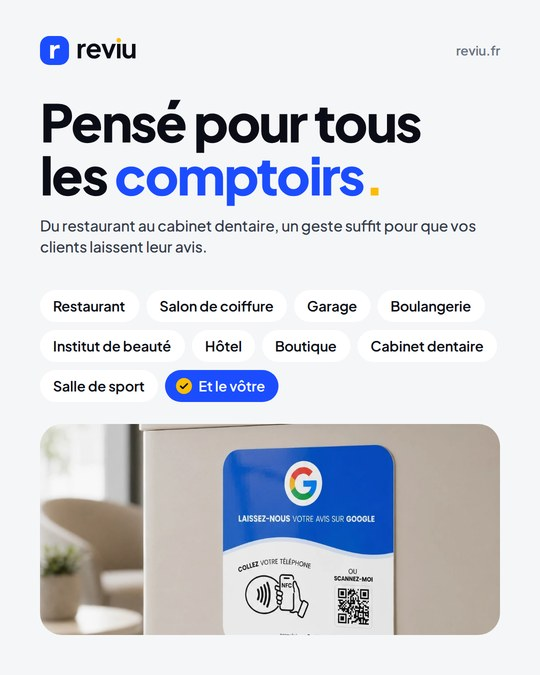
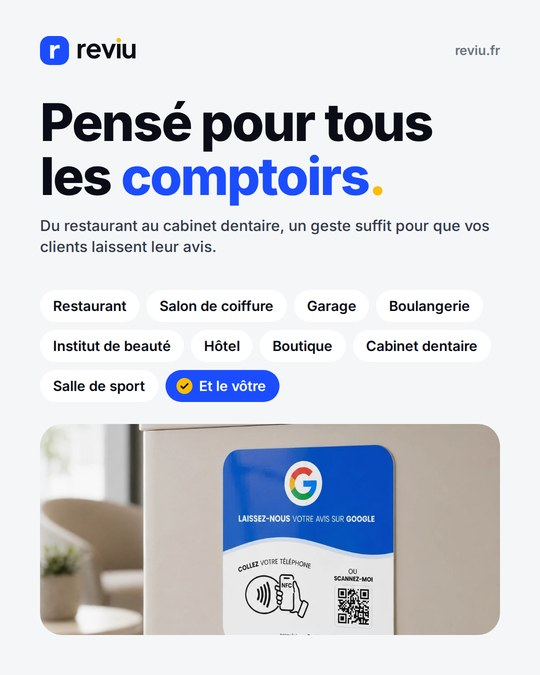
Charte graphique : textes Canva en Inter, spécimens typographiques
Plus Jakarta Sans n'étant pas reconnue par l'import Canva, les textes
éditables passent en Inter (gratuite dans Canva). Le logo reste en
Plus Jakarta Sans vectorisée.

Claude-Session: https://claude.ai/code/session_01CiP53sziPvu6eCSHGXHRLu

diff --git a/brand/sources/build.py b/brand/sources/build.py
@@ -15,7 +15,7 @@ def width(text, size, weight=500, ls=0):
     name = {400: "Regular", 500: "Medium", 600: "SemiBold", 700: "Bold", 800: "ExtraBold"}[weight]
     key = (name, size)
     if key not in _fonts:
-        _fonts[key] = ImageFont.truetype(f"static/PlusJakartaSans-{name}.ttf", size)
+        _fonts[key] = ImageFont.truetype(f"static/Inter-{name}.ttf", size)
     return _fonts[key].getlength(text) + ls * size * max(len(text) - 1, 0)
 
 def A(p):
@@ -29,7 +29,14 @@ def T(x, y, w, txt, size, weight=500, color=INK, lh=1.35, ls=0.0, align="left"):
     return (f'<div class="t" style="left:{x}px;top:{y}px;width:{w}px;font-size:{size}px;font-weight:{weight};'
             f'color:{color};line-height:{lh};letter-spacing:{ls}em;text-align:{align}">{txt}</div>')
 
-def HEAD(x, y, w, txt, size, color=INK, lh=1.02, ls=-0.035, weight=800, align="left"):
+import re as _re
+WARN = []
+def HEAD(x, y, w, txt, size, color=INK, lh=1.04, ls=-0.03, weight=800, align="left"):
+    for line in txt.split("<br>"):
+        plain = H.unescape(_re.sub(r"<[^>]+>", "", line))
+        lw = width(plain, size, weight, ls)
+        if lw > w * 0.94:
+            WARN.append(f"{plain!r} {lw:.0f}/{w}")
     return T(x, y, w, txt, size, weight, color, lh, ls, align)
 
 def R(x, y, w, h, bg, r=0, border=None, opacity=None):
@@ -102,12 +109,12 @@ def page(w, h, bg, inner, label):
 
 def doc(pages, title):
     if MODE == "local":
-        fonts = '<link rel="stylesheet" href="../../fonts/static.css">'
+        fonts = '<link rel="stylesheet" href="../../fonts/inter.css">'
     else:
         fonts = ('<link rel="preconnect" href="https://fonts.googleapis.com">'
-                 '<link rel="stylesheet" href="https://fonts.googleapis.com/css2?family=Plus+Jakarta+Sans:wght@400;500;600;700;800&display=swap">')
+                 '<link rel="stylesheet" href="https://fonts.googleapis.com/css2?family=Inter:wght@400;500;600;700;800&display=swap">')
     css = ("*{margin:0;padding:0;box-sizing:border-box}html,body{background:#fff}"
-           "body{font-family:'Plus Jakarta Sans',sans-serif;-webkit-font-smoothing:antialiased}"
+           "body{font-family:'Inter',sans-serif;-webkit-font-smoothing:antialiased}"
            ".page{position:relative;overflow:hidden;break-after:page}.page:last-child{break-after:auto}"
            ".t,.r,.i{position:absolute}.t{white-space:normal}")
     return f'<!doctype html><html lang="fr"><head><meta charset="utf-8"><title>{title}</title>{fonts}<style>{css}</style></head><body>{"".join(pages)}</body></html>'
@@ -232,7 +239,7 @@ def stories():
 
     # 3. Sondage (cobalt)
     inner = logo(80, 250, 58, "blanc-sur-cobalt")
-    inner += HEAD(80, 420, 940, f"Combien d’avis<br>Google avez-vous<br>aujourd’hui {g('?')}", 104, WHITE)
+    inner += HEAD(80, 420, 940, f"Combien d’avis<br>Google avez-vous<br>aujourd’hui {g('?')}", 96, WHITE)
     inner += R(130, 840, 820, 460, STRONG, 48)
     inner += I(390, 930, 300, "icons/stars-5-gold.svg")
     inner += T(130, 1030, 820, "Ajoutez ici le sticker Sondage", 32, 700, WHITE, 1.3, 0, "center")
@@ -468,26 +475,31 @@ def charte():
 
     # 9 Typographie
     inner = ctitle(f"La {c('typographie')}{g()}")
-    inner += T(110, 230, 700, "Aa", 330, 800, INK, 1.0, -0.05)
-    inner += T(120, 590, 700, "Plus Jakarta Sans", 52, 800, INK, 1.2, -0.03)
-    inner += T(120, 660, 700, "Gratuite sur Google Fonts et disponible dans Canva.", 24, 500, MUTED, 1.4)
-    inner += T(120, 730, 700, "ABCDEFGHIJKLMNOPQRSTUVWXYZ<br>abcdefghijklmnopqrstuvwxyz<br>0123456789 € % ! ? « »", 26, 600, SOFT, 1.6, 0.02)
-    rows = [("Titre", f"Plus d’avis Google{g()}", 64, 800, -0.035, "ExtraBold 800 · interlettrage -3,5 % · interligne 1"),
-            ("Sous-titre", "Depuis votre comptoir", 40, 700, -0.02, "Bold 700 · interlettrage -2 %"),
-            ("Texte", "Le client approche son téléphone et votre page d’avis s’ouvre.", 28, 500, 0, "Medium 500 · interligne 1,4"),
-            ("Étiquette", "Commander", 26, 600, 0, "SemiBold 600 · boutons, pastilles, mentions")]
-    y = 250
-    for lab, sample, sz, wt, ls, spec in rows:
-        inner += T(960, y + 8, 200, lab, 22, 800, COBALT, 1.3)
+    inner += R(120, 250, 820, 410, PERLE, 36)
+    inner += I(160, 290, 250, "icons/specimen-pjs-aa.svg")
+    inner += I(440, 306, 440, "icons/specimen-pjs-nom.svg")
+    inner += T(440, 392, 460, "Police d’identité : logo, site web et documents imprimés. Gratuite sur Google Fonts.", 22, 500, SOFT, 1.5)
+    inner += I(160, 580, 700, "icons/specimen-pjs-alphabet.svg")
+    inner += R(980, 250, 820, 410, BRUME, 36)
+    inner += T(1016, 318, 270, "Aa", 196, 800, INK, 1.0, -0.04)
+    inner += T(1300, 300, 460, "Inter", 64, 800, INK, 1.1, -0.03)
+    inner += T(1300, 392, 460, "Police des visuels créés dans Canva : réseaux sociaux, affiches, présentations. Gratuite dans Canva.", 22, 500, SOFT, 1.5)
+    inner += T(1020, 580, 740, "ABCDEFGHIJKLMNOPQRSTUVWXYZ", 30, 600, SOFT, 1.3, 0.02)
+    rows = [("Titre", f"Plus d’avis{g()}", 56, 800, -0.03, "Inter ExtraBold 800 · interlettrage -3 %"),
+            ("Sous-titre", "Votre comptoir", 38, 700, -0.02, "Inter Bold 700 · interlettrage -2 %"),
+            ("Texte", "Le client approche son téléphone.", 24, 500, 0, "Inter Medium 500 · interligne 1,4"),
+            ("Étiquette", "Commander", 24, 600, 0, "Inter SemiBold 600 · boutons, pastilles")]
+    for i, (lab, sample, sz, wt, ls, spec) in enumerate(rows):
+        x = 120 + i * 430
+        inner += R(x, 700, 390, 2, LINE)
+        inner += T(x, 724, 390, lab, 20, 800, COBALT, 1.3)
         if lab == "Étiquette":
-            o, _ = pill(1180, y - 6, sample, 26, COBALT, WHITE, None, h=62, weight=600, pad=30)
+            o, _ = pill(x, 772, sample, 24, COBALT, WHITE, None, h=60, weight=600, pad=28)
             inner += o
         else:
-            inner += T(1180, y, 640, sample, sz, wt, INK, 1.15, ls)
-        inner += T(1180, y + (sz * 1.15 if lab != "Texte" else 80) + (14 if lab != "Étiquette" else 30), 640, spec, 20, 600, MUTED, 1.4)
-        y += {"Titre": 190, "Sous-titre": 160, "Texte": 190, "Étiquette": 0}[lab]
-    inner += R(960, 930, 840, 2, LINE)
-    inner += T(960, 950, 840, "Sur le site web, le texte courant de l’interface utilise Geist.", 20, 600, MUTED, 1.4)
+            inner += T(x, 770, 400, sample, sz, wt, INK, 1.2, ls)
+        inner += T(x, 870, 390, spec, 18, 600, MUTED, 1.4)
+    inner += T(120, 950, 1680, "Sur le site web, le texte courant de l’interface utilise Geist. Dans Canva, tout le texte est en Inter.", 20, 600, MUTED, 1.4)
     inner += foot(9)
     pg.append(page(CW, CH, WHITE, inner, "La typographie"))
 
@@ -592,9 +604,10 @@ def charte():
              "Stories : 1080 × 1920 px, rien d’important dans les 250 px du haut et du bas.",
              "Logo en haut à gauche, reviu.fr en haut à droite.",
              "Alterner les fonds : blanc, brume, cobalt, encre.",
-             "Une photo réelle du présentoir dans un visuel sur deux."]
+             "Une photo réelle du présentoir dans un visuel sur deux.",
+             "Texte en Inter : titres ExtraBold, texte Medium."]
     for i, r_ in enumerate(rules):
-        y = 240 + i * 138
+        y = 240 + i * 124
         inner += I(1520, y + 4, 30, "icons/dot-gold.svg") if False else ""
         inner += R(1500, y, 300, 2, LINE)
         inner += T(1500, y + 18, 300, r_, 22, 600, INK, 1.45)
@@ -618,3 +631,5 @@ if __name__ == "__main__":
     open(f"{out}/logo.html", "w").write(logo_doc())
     open(f"{out}/charte-graphique.html", "w").write(charte())
     print("ok", out)
+    for w_ in WARN:
+        print("TROP LARGE", w_)

diff --git a/brand/sources/specimen.py b/brand/sources/specimen.py
@@ -1,0 +1,36 @@
+"""Textes vectorisés en Plus Jakarta Sans (spécimen de la page Typographie)."""
+import uharfbuzz as hb
+from fontTools.ttLib import TTFont
+from fontTools.pens.svgPathPen import SVGPathPen
+
+def text_svg(text, wght, size, color, ls=0.0):
+    font = TTFont(f"static/PlusJakartaSans-{ {500:'Medium',600:'SemiBold',700:'Bold',800:'ExtraBold'}[wght] }.ttf")
+    upm = font["head"].unitsPerEm
+    gs = font.getGlyphSet(); order = font.getGlyphOrder()
+    blob = hb.Blob.from_file_path(f"static/PlusJakartaSans-{ {500:'Medium',600:'SemiBold',700:'Bold',800:'ExtraBold'}[wght] }.ttf")
+    f = hb.Font(hb.Face(blob)); buf = hb.Buffer(); buf.add_str(text); buf.guess_segment_properties()
+    hb.shape(f, buf, {"kern": True})
+    x = 0; paths = []
+    for info, pos in zip(buf.glyph_infos, buf.glyph_positions):
+        pen = SVGPathPen(gs); gs[order[info.codepoint]].draw(pen)
+        d = pen.getCommands()
+        if d:
+            paths.append(f'<path transform="translate({x + pos.x_offset} 0)" d="{d}"/>')
+        x += pos.x_advance + ls * upm
+    x -= ls * upm
+    asc, desc = font["hhea"].ascent, font["hhea"].descent
+    s = size / upm
+    W, H = x * s, (asc - desc) * s
+    return (f'<svg xmlns="http://www.w3.org/2000/svg" viewBox="0 0 {W:.1f} {H:.1f}" width="{W:.0f}" height="{H:.0f}">'
+            f'<g transform="translate(0 {asc * s:.2f}) scale({s:.5f} {-s:.5f})" fill="{color}">{"".join(paths)}</g></svg>'), W, H
+
+if __name__ == "__main__":
+    for name, (t, w, sz, col, ls) in {
+        "specimen-pjs-aa": ("Aa", 800, 400, "#0A0D16", -0.05),
+        "specimen-pjs-nom": ("Plus Jakarta Sans", 800, 100, "#0A0D16", -0.03),
+        "specimen-pjs-alphabet": ("ABCDEFGHIJKLMNOPQRSTUVWXYZ", 600, 60, "#333A49", 0.02),
+        "specimen-pjs-alphabet-bas": ("abcdefghijklmnopqrstuvwxyz 0123456789", 600, 60, "#333A49", 0.02),
+    }.items():
+        svg, W, H = text_svg(t, w, sz, col, ls)
+        open(f"out/icons/{name}.svg", "w").write(svg)
+        print(name, round(W), round(H))

diff --git a/brand/README.md b/brand/README.md
@@ -61,7 +61,7 @@ Les scripts de `sources/` attendent, dans leur dossier de travail, les polices
 leurs instances statiques dans `static/`. Dépendances : `fonttools`, `brotli`,
 `uharfbuzz`, `pillow`, et Playwright pour les rendus.
 
-1. `python glyphs.py` puis `python make_logos.py` et `python variants.py` : logos et pictogrammes.
+1. `python glyphs.py` puis `python make_logos.py`, `python variants.py` et `python specimen.py` : logos, pictogrammes et spécimens.
 2. `python build.py local` : aperçu local ; `python build.py canva <URL racine des ressources> <dossier>` : pages pour l'import Canva.
 3. Pousser les ressources, puis importer chaque page HTML dans Canva
    (import depuis une URL publique qui sert le HTML en `text/html`).
